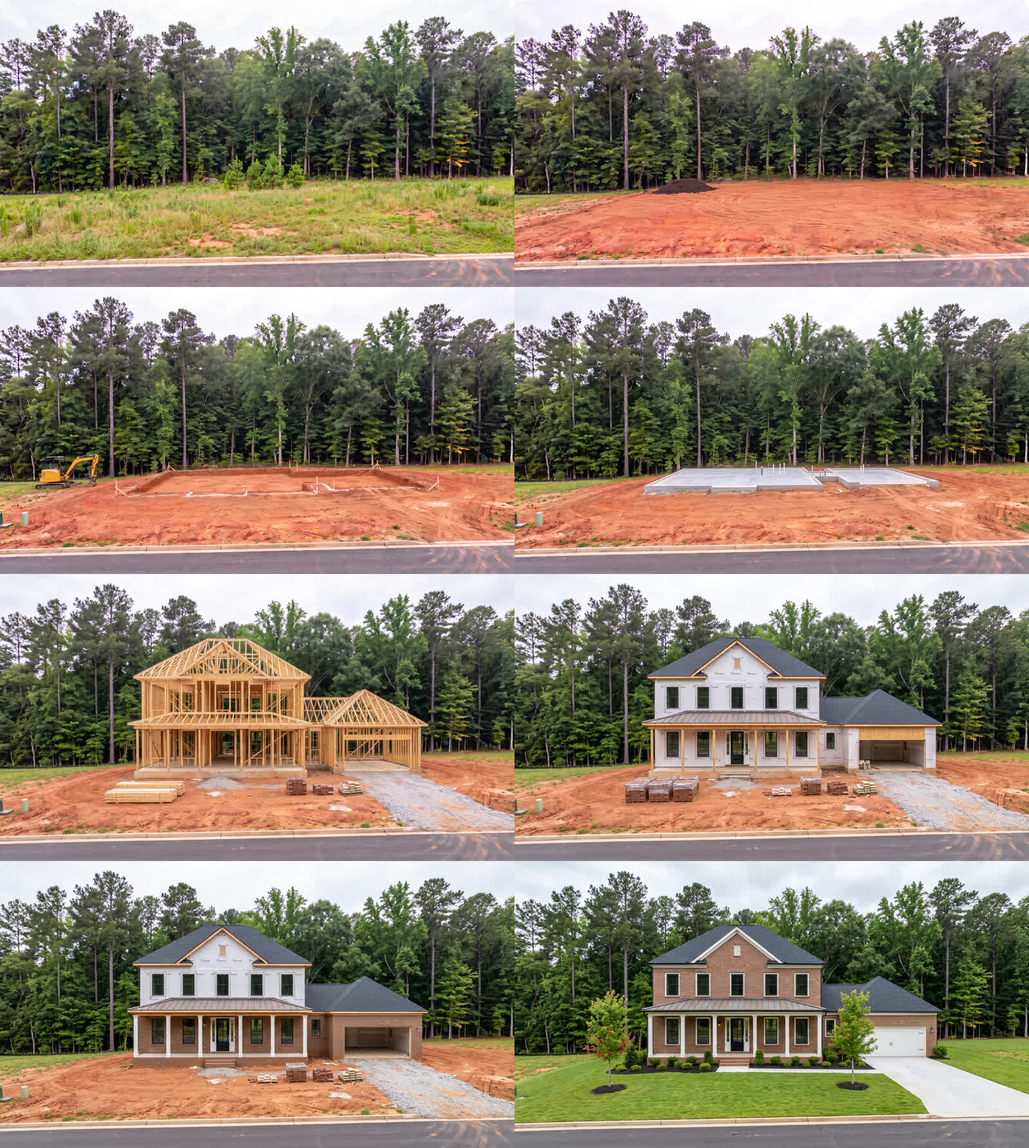
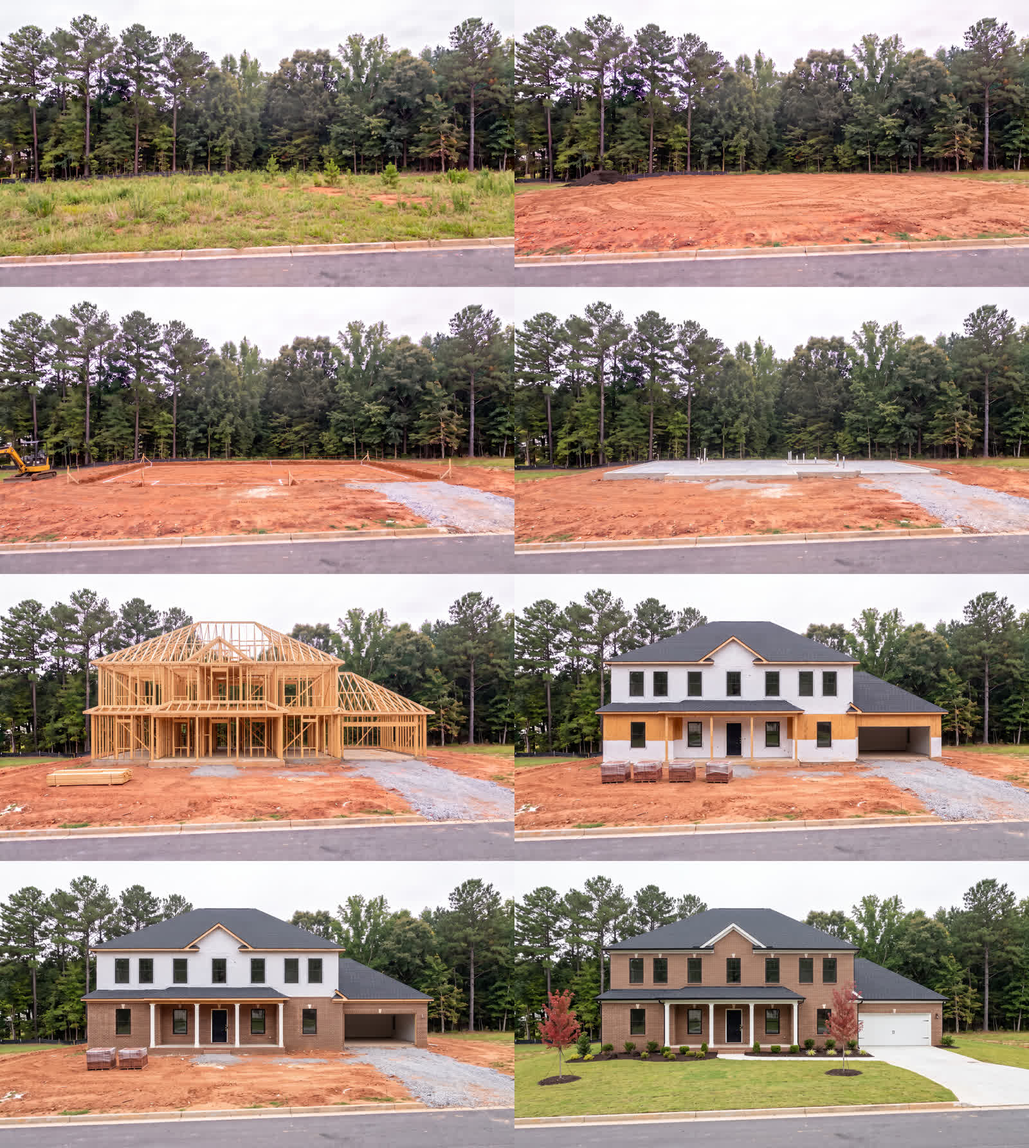
Two-story set: reuse the ranch's lot-to-foundation stills, regenerate only stages 5-8
The prompt set's new base block copies stages 1-4 from brick-ranch-atlanta and
makes the finished two-story home as an edit of the ranch's finished still, so
the lot, camera and slab match exactly.

Claude-Session: https://claude.ai/code/session_014Pr9GmcDFt4u6AxF3Fexo5

diff --git a/production/README.md b/production/README.md
@@ -13,3 +13,7 @@ Makes the scroll-build frames with your own fal account. Your key stays on your 
 The prompts live in `prompts/brick-ranch-atlanta.json`. A readable copy is in `prompts/brick-ranch-atlanta.md` if you'd rather paste them into Gemini yourself.
 
 Endpoints: `fal-ai/nano-banana-2` and `fal-ai/nano-banana-2/edit` at 2K, `fal-ai/kling-video/v2.6/pro/image-to-video` with audio off. Prices in the script were read from fal.ai on Nov 21, 2026.
+
+## A second house on the same lot
+
+`prompts/brick-two-story-atlanta.json` has a `base` block, so it builds on the ranch set instead of starting over. Stages 1-4 (lot, clearing, dig, foundation) are copied from the ranch stills at no cost. The finished two-story home is an edit of the ranch's finished still on the same footprint, and stages 7, 6 and 5 are edits back from it. Run it with `npm run fal -- stills --prompts production/prompts/brick-two-story-atlanta.json` after the ranch stills exist. Only 4 stills are paid for.
